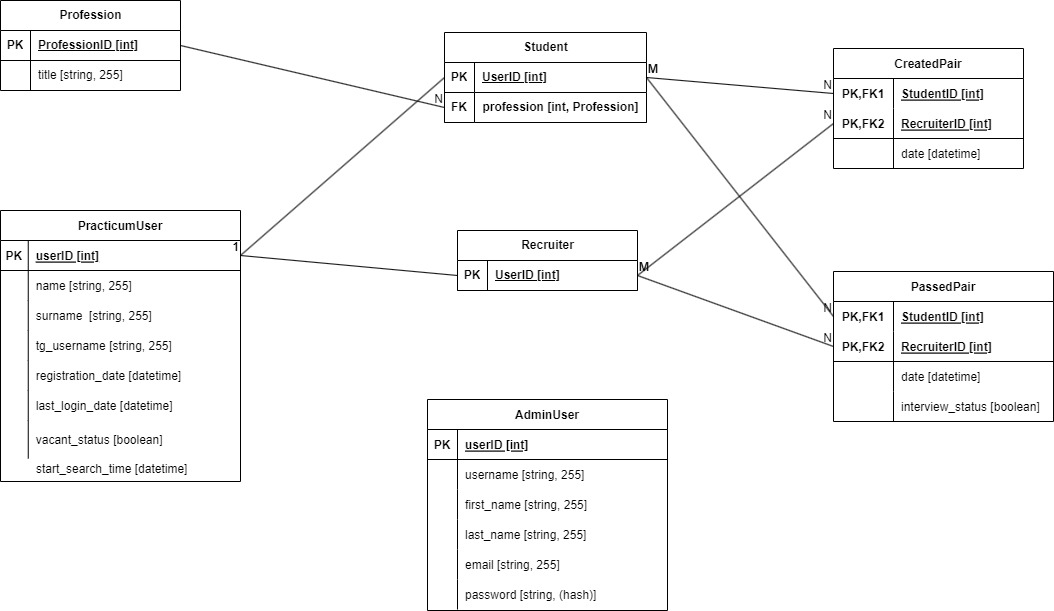
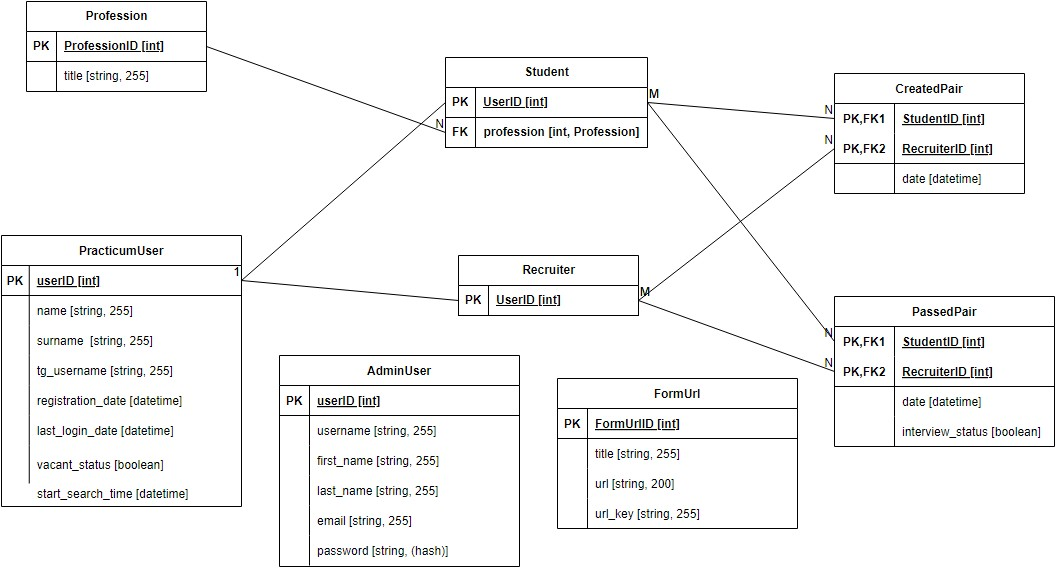
add formurl model, migrations, admin and diagram

diff --git a/src/bot/migrations/0007_add_formurl_data.py b/src/bot/migrations/0007_add_formurl_data.py
@@ -1,0 +1,72 @@
+# Generated by Django 4.2.6 on 2023-10-11 13:46
+
+from django.db import migrations
+
+
+def create_url_support(apps, schema_editor):
+    """Create FormUrl 'Support'."""
+    FormUrl = apps.get_model("bot", "FormUrl")
+    FormUrl.objects.create(
+        title="Поддержка",
+        url_key="support"
+    )
+
+
+def remove_url_support(apps, schema_editor):
+    """Remove FormUrl 'Support' instance."""
+    FormUrl = apps.get_model("bot", "FormUrl")
+    remove_form_url = FormUrl.objects.get(url_key="support")
+    remove_form_url.delete()
+
+
+def create_url_guide(apps, schema_editor):
+    """Create FormUrl 'Guide'."""
+    FormUrl = apps.get_model("bot", "FormUrl")
+    FormUrl.objects.create(
+        title="Гайд",
+        url_key="guide"
+    )
+
+
+def remove_url_guide(apps, schema_editor):
+    """Remove FormUrl 'Guide' instance."""
+    FormUrl = apps.get_model("bot", "FormUrl")
+    remove_form_url = FormUrl.objects.get(url_key="guide")
+    remove_form_url.delete()
+
+
+def create_url_feedback(apps, schema_editor):
+    """Create FormUrl 'Feedback'."""
+    FormUrl = apps.get_model("bot", "FormUrl")
+    FormUrl.objects.create(
+        title="Обратная связь",
+        url_key="feedback"
+    )
+
+
+def remove_url_feedback(apps, schema_editor):
+    """Remove FormUrl 'Feedback' instance."""
+    FormUrl = apps.get_model("bot", "FormUrl")
+    remove_form_url = FormUrl.objects.get(url_key="feedback")
+    remove_form_url.delete()
+
+
+class Migration(migrations.Migration):
+    dependencies = [
+        ('bot', '0006_add_formurl_model'),
+    ]
+
+    operations = [
+        migrations.RunPython(
+            create_url_support,
+            reverse_code=remove_url_support
+        ),
+        migrations.RunPython(
+            create_url_guide,
+            reverse_code=remove_url_guide
+        ),
+        migrations.RunPython(
+            create_url_feedback,
+            reverse_code=remove_url_feedback
+        ),
+    ]

diff --git a/src/bot/migrations/0006_add_formurl_model.py b/src/bot/migrations/0006_add_formurl_model.py
@@ -1,0 +1,41 @@
+# Generated by Django 4.2.6 on 2023-10-11 13:36
+
+from django.db import migrations, models
+
+
+class Migration(migrations.Migration):
+    dependencies = [
+        ("bot", "0005_merge_20231002_1739"),
+    ]
+
+    operations = [
+        migrations.CreateModel(
+            name="FormUrl",
+            fields=[
+                (
+                    "id",
+                    models.BigAutoField(
+                        auto_created=True,
+                        primary_key=True,
+                        serialize=False,
+                        verbose_name="ID",
+                    ),
+                ),
+                (
+                    "title",
+                    models.CharField(max_length=255, verbose_name="Название ссылки"),
+                ),
+                ("url", models.URLField(verbose_name="Ссылка", null=True)),
+                (
+                    "url_key",
+                    models.CharField(
+                        max_length=255, unique=True, verbose_name="Ключ ссылки"
+                    ),
+                ),
+            ],
+            options={
+                "verbose_name": "Ссылка на форму",
+                "verbose_name_plural": "Ссылки на формы",
+            },
+        ),
+    ]

diff --git a/src/bot/admin.py b/src/bot/admin.py
@@ -1,6 +1,13 @@
 from django.contrib import admin
 
-from bot.models import CreatedPair, PassedPair, Profession, Recruiter, Student
+from bot.models import (
+    CreatedPair,
+    FormUrl,
+    PassedPair,
+    Profession,
+    Recruiter,
+    Student,
+)
 
 
 @admin.register(Profession)
@@ -76,3 +83,24 @@ class RecruiterAdmin(admin.ModelAdmin):
     )
     list_filter = ("registration_date", "last_login_date", "has_pair")
     search_fields = ("telegram_id", "telegram_username")
+
+
+@admin.register(FormUrl)
+class FormUrlAdmin(admin.ModelAdmin):
+    """Управление моделью ссылок на формы."""
+
+    list_display = (
+        "title",
+        "url",
+        "url_key",
+    )
+    list_filter = ("title", "url_key")
+    search_fields = ("title", "url_key")
+
+    def has_delete_permission(self, request, obj=None):
+        """Запрещает удалять ссылки."""
+        return False
+
+    def has_add_permission(self, request):
+        """Запрещает создавать новые ссылки."""
+        return False

diff --git a/src/bot/models.py b/src/bot/models.py
@@ -140,3 +140,22 @@ class PassedPair(CustomPair):
         ]
         verbose_name = "Завершенная пара"
         verbose_name_plural = "Завершенные пары"
+
+
+class FormUrl(models.Model):
+    """Модель для ссылок на формы."""
+
+    title = models.CharField(max_length=255, verbose_name="Название ссылки")
+    url = models.URLField(verbose_name="Ссылка", null=True)
+    url_key = models.CharField(
+        max_length=255,
+        unique=True,
+        verbose_name="Ключ ссылки",
+    )
+
+    class Meta:
+        verbose_name = "Ссылка на форму"
+        verbose_name_plural = "Ссылки на формы"
+
+    def __str__(self):
+        return f"Название {self.title} | " f"Ссылка {self.url}"
